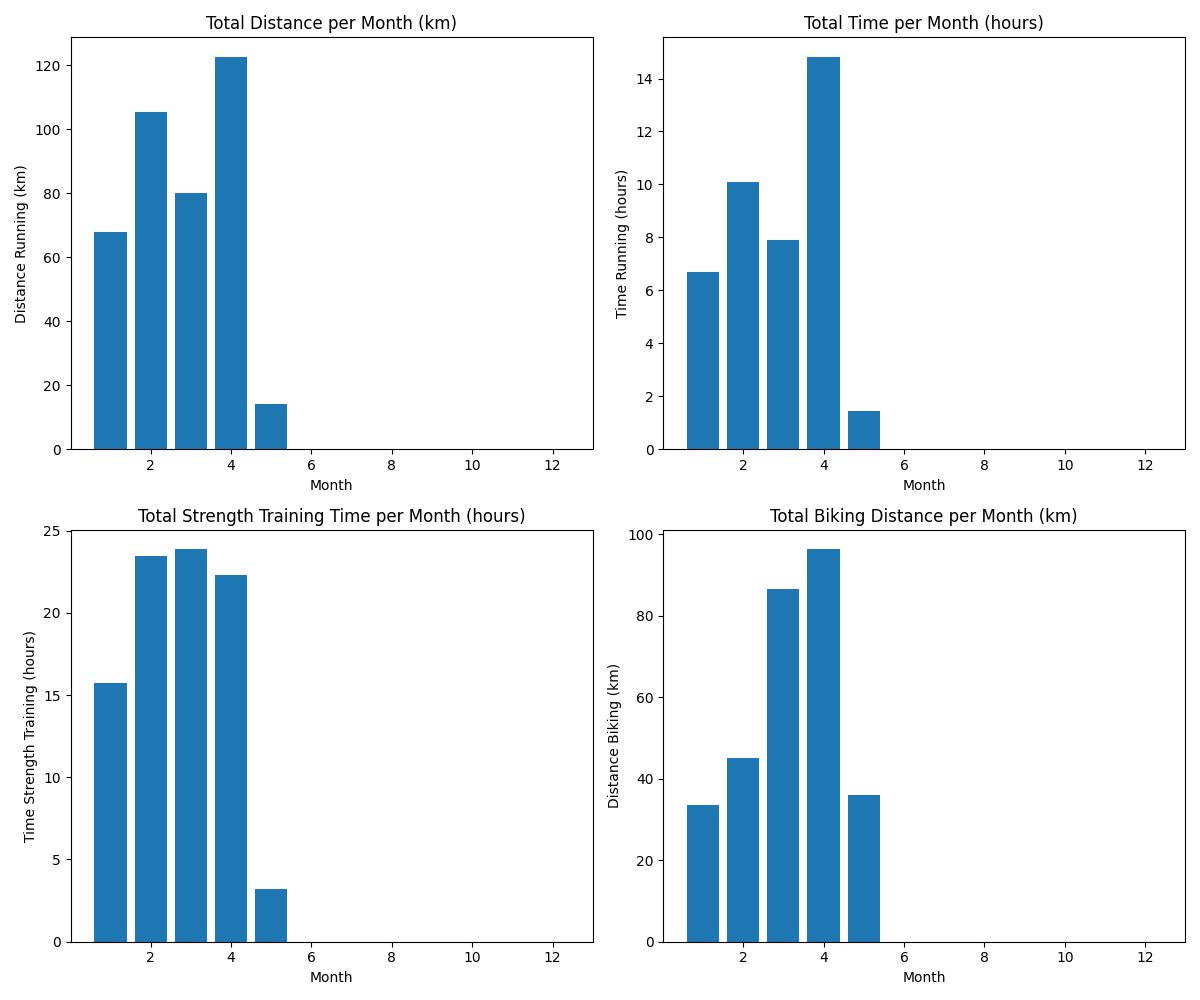
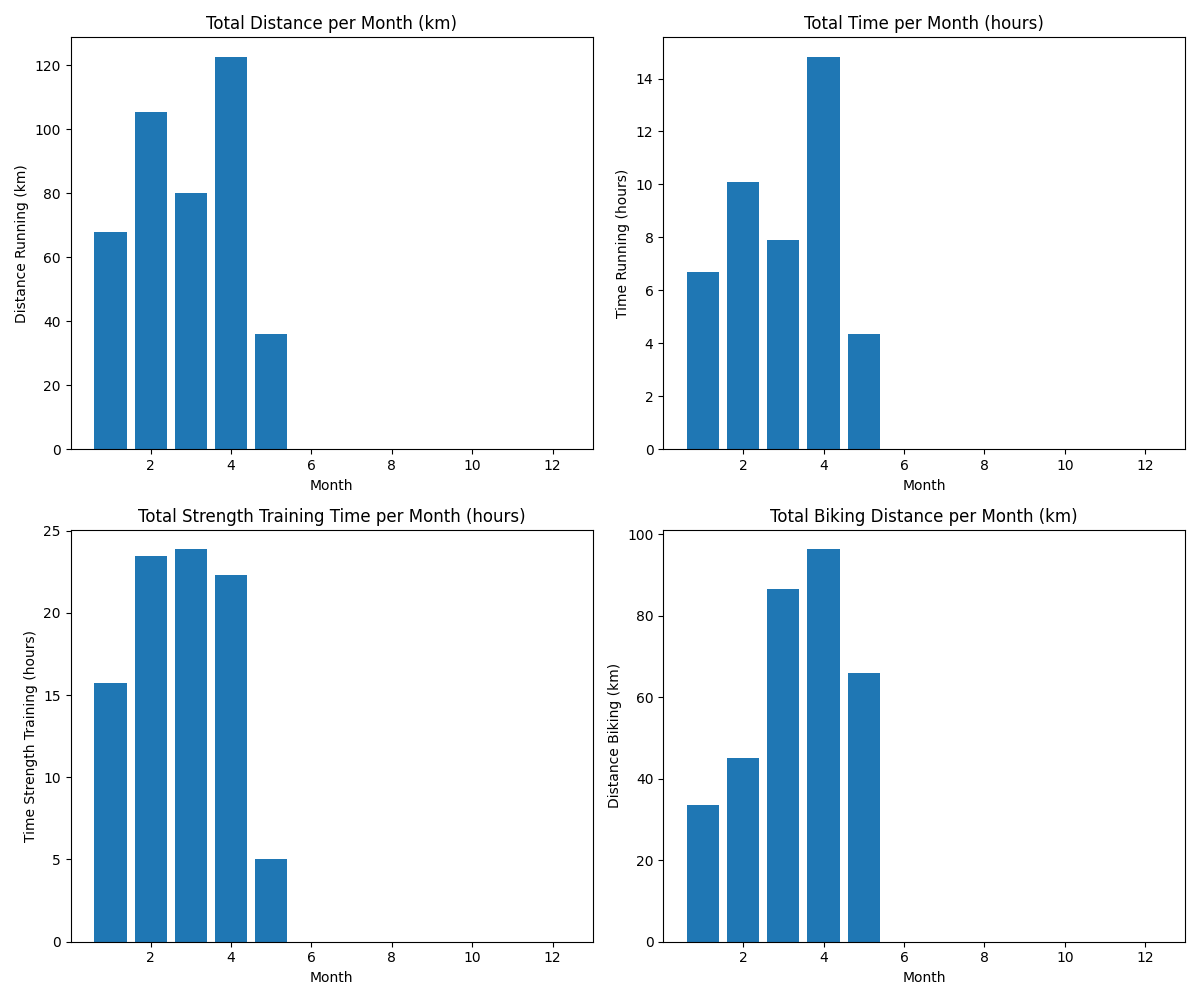
sport update 10.5

diff --git a/Sport/Sport_2026_report.md b/Sport/Sport_2026_report.md
@@ -3,21 +3,21 @@
 ## Sport Counts
 | type   |   count |
 |:-------|--------:|
-| F      |     102 |
+| F      |     104 |
 | K      |       5 |
-| S      |       3 |
-| L      |       1 |
-| Total  |     111 |
+| S      |       4 |
+| L      |       2 |
+| Total  |     115 |
 
 ## Summary
-- **Total distance run on treadmill:** 376.51 km
-- **Total distance run outside:** 6.14 km
-- **Total distance cycled:** 297.25 km
-- **Total distance swimming:** 7.50 km
-- **Total time spent on strength training:** 88h 36min
+- **Total distance run on treadmill:** 389.51 km
+- **Total distance run outside:** 12.64 km
+- **Total distance cycled:** 327.25 km
+- **Total distance swimming:** 10.00 km
+- **Total time spent on strength training:** 90h 25min
 
 ## Average Speeds
 - **Treadmill running:** 10.04 km/h
-- **Outside running:** 10.96 km/h
-- **Cycling:** 22.65 km/h
+- **Outside running:** 10.90 km/h
+- **Cycling:** 22.49 km/h
 - **Swimming:** 2.50 km/h
